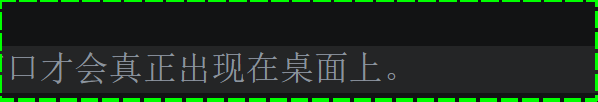
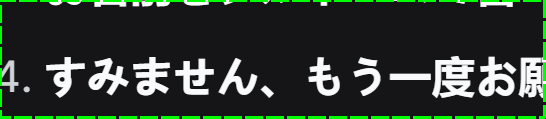
4-加入语言选项

diff --git a/src/ui/main_window.py b/src/ui/main_window.py
@@ -4,9 +4,17 @@ from pathlib import Path
 
 from PyQt6.QtCore import QObject, QThread, QTimer, QRect, pyqtSignal, pyqtSlot
 from PyQt6.QtGui import QCloseEvent
-from PyQt6.QtWidgets import QCheckBox, QMainWindow, QMessageBox, QPushButton, QVBoxLayout, QWidget
+from PyQt6.QtWidgets import (
+    QCheckBox,
+    QComboBox,
+    QMainWindow,
+    QMessageBox,
+    QPushButton,
+    QVBoxLayout,
+    QWidget,
+)
 
-from core.ocr_engine import prewarm_ocr_engine, recognize_texts
+from core.ocr_engine import prewarm_ocr_engine, recognize_texts, set_ocr_language
 
 from ui.screen_region_selector import (
     SelectionOutlineOverlay,
@@ -100,6 +108,15 @@ class MainWindow(QMainWindow):
         )
         layout.addWidget(self.select_screen_region_button)
 
+        self.language_combo_box = QComboBox(self)
+        self.language_combo_box.addItem("英语", "en")
+        self.language_combo_box.addItem("日语", "japan")
+        self.language_combo_box.setCurrentIndex(0)
+        self.language_combo_box.currentIndexChanged.connect(
+            self._on_language_combo_box_changed
+        )
+        layout.addWidget(self.language_combo_box)
+
         # “识别框选区域文字”按钮会从配置中加载上一轮选择结果，并进一步进入 OCR 流程。
         self.recognize_selected_region_text_button = QPushButton(
             "识别框选区域文字",
@@ -137,6 +154,8 @@ class MainWindow(QMainWindow):
         self._auto_recognition_timer.timeout.connect(self._on_auto_recognition_timer_timeout)
 
         # 根据初始状态更新按钮启用状态，并在后台启动 OCR 预热。
+        set_ocr_language("en")
+        self._auto_recognition_enabled = self.auto_recognition_checkbox.isChecked()
         self._update_button_states()
         self._start_ocr_prewarm()
 
@@ -245,6 +264,14 @@ class MainWindow(QMainWindow):
     def _on_auto_recognition_checkbox_state_changed(self, _state: int) -> None:
         self._auto_recognition_enabled = self.auto_recognition_checkbox.isChecked()
 
+    def _on_language_combo_box_changed(self, _index: int) -> None:
+        selected_lang = self.language_combo_box.currentData()
+        if not isinstance(selected_lang, str):
+            return
+
+        self._wait_for_ocr_thread_if_needed()
+        set_ocr_language(selected_lang)
+
     def _start_auto_recognition(self) -> None:
         if not self._auto_recognition_enabled:
             self._perform_single_recognition()
@@ -269,6 +296,13 @@ class MainWindow(QMainWindow):
         print("[定时识别] 自动识别已停止")
         self.auto_recognition_checkbox.setEnabled(True)
         self._update_button_states()
+
+    def _wait_for_ocr_thread_if_needed(self) -> None:
+        if self._ocr_thread is None:
+            return
+
+        self._ocr_thread.wait()
+        self._is_recognition_running = False
 
     def _on_auto_recognition_timer_timeout(self) -> None:
         if self._is_recognition_running:
@@ -314,6 +348,7 @@ class MainWindow(QMainWindow):
         self._ocr_thread.finished.connect(self._cleanup_ocr_recognition_thread)
 
         self._ocr_thread.start()
+        self._update_button_states()
 
     def _on_ocr_recognition_finished(self, recognized_texts: list) -> None:
         # 实际应用中这里通常还会把识别结果进一步分发到业务逻辑或显示层；
@@ -334,6 +369,8 @@ class MainWindow(QMainWindow):
         if self._ocr_thread is not None:
             self._ocr_thread.deleteLater()
             self._ocr_thread = None
+
+        self._update_button_states()
 
     def _start_ocr_prewarm(self) -> None:
         # 程序初始化时触发一次预热，早准备 OCR 模型，以减少首次真实识别的延迟。
@@ -376,12 +413,14 @@ class MainWindow(QMainWindow):
             self.select_screen_region_button.setEnabled(False)
             self.recognize_selected_region_text_button.setEnabled(True)
             self.auto_recognition_checkbox.setEnabled(False)
+            self.language_combo_box.setEnabled(False)
             self.recognize_selected_region_text_button.setText("停止识别")
             return
 
         self.select_screen_region_button.setEnabled(is_idle)
         self.recognize_selected_region_text_button.setEnabled(is_idle)
         self.auto_recognition_checkbox.setEnabled(is_idle)
+        self.language_combo_box.setEnabled(is_idle and self._ocr_thread is None)
         self.recognize_selected_region_text_button.setText("识别框选区域文字")
 
     def _show_window_in_front(self) -> None:

diff --git a/src/core/ocr_engine.py b/src/core/ocr_engine.py
@@ -15,8 +15,19 @@ from PIL import Image
 # 3. 识别函数统一提取有效文本，并返回干净的字符串列表供上层业务使用。
 
 _ocr_engine: PaddleOCR | None = None
+_current_lang = "en"
 # RLock 用于保护全局引擎实例与识别过程，确保多线程下不会出现竞争条件。
 _ocr_lock = RLock()
+
+
+def set_ocr_language(lang_code: str) -> None:
+    """设置 OCR 引擎语言，并在下次访问时重新初始化引擎。"""
+
+    global _ocr_engine, _current_lang
+
+    with _ocr_lock:
+        _current_lang = lang_code
+        _ocr_engine = None
 
 
 def get_ocr_engine() -> PaddleOCR:
@@ -26,10 +37,10 @@ def get_ocr_engine() -> PaddleOCR:
 
     with _ocr_lock:
         if _ocr_engine is None:
-            # PaddleOCR 的中文模型需要在 CPU 上运行，且在本项目中不需要 MKL 相关加速。
+            # PaddleOCR 的语言模型需要在 CPU 上运行，且在本项目中不需要 MKL 相关加速。
             # 这样能优先保证兼容性，减少某些环境下因底层库不匹配带来的问题。
             _ocr_engine = PaddleOCR(
-                lang="ch",
+                lang=_current_lang,
                 device="cpu",
                 enable_mkldnn=False,
             )
